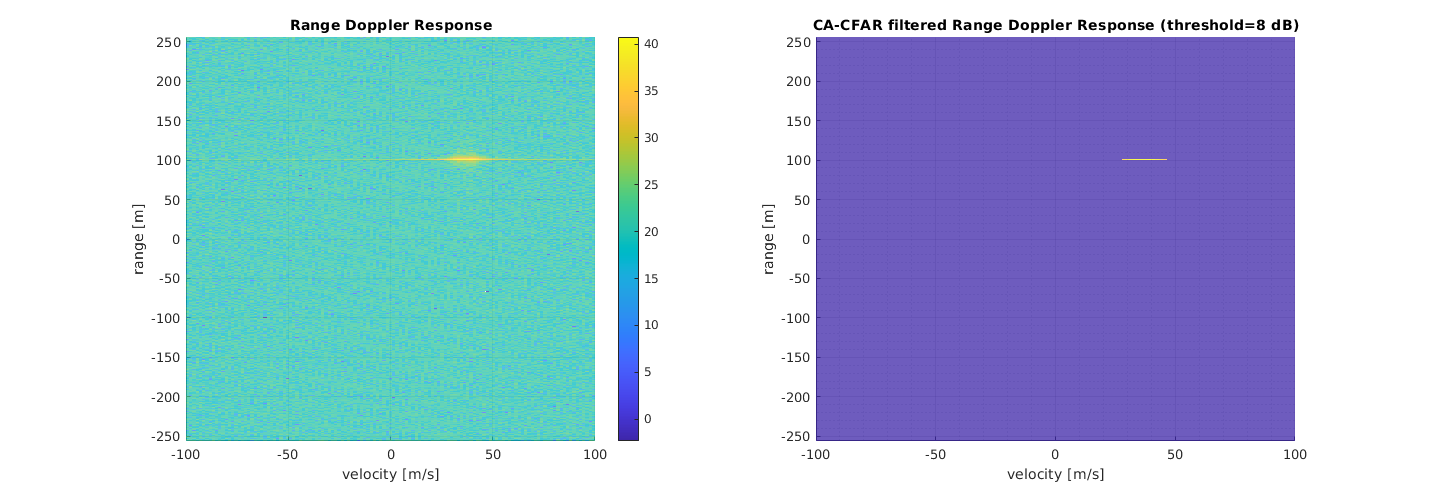
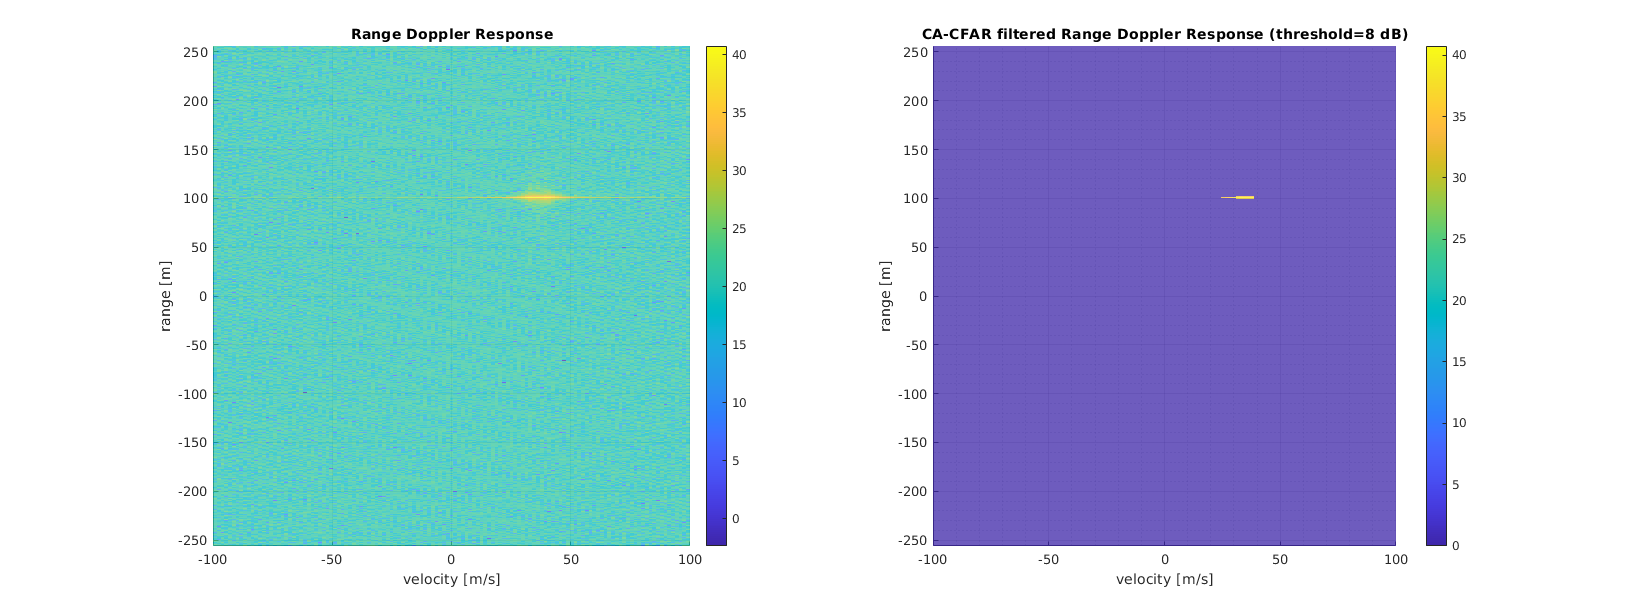
Add writeup to README

diff --git a/radar_target_generation_and_detection.m b/radar_target_generation_and_detection.m
@@ -36,8 +36,8 @@ str_factor = 5.5;                       % sweep-to-roundtrip factor,
                                         % as a typical value for an
                                         % FMCW radar system.
 
-Bsweep = c/(2*range_resolution);        % Hz, bandwidth
-Tchirp = str_factor * 2 * max_range/c;  % s, chirp time
+Bsweep = c/(2*range_resolution)         % Hz, bandwidth
+Tchirp = str_factor * 2 * max_range/c   % s, chirp time
 slope = Bsweep/Tchirp                   % Hz/s
 
 
@@ -164,12 +164,12 @@ surf(doppler_axis, range_axis, RDM);
 
 % Select the number of Training Cells in both the dimensions.
 Tr = 8;
-Td = 4;
+Td = 8;
 
 % Select the number of Guard Cells in both dimensions around the Cell
 % under test (CUT) for accurate estimation
 Gr = 4;
-Gd = 2;
+Gd = 8;
 
 % Offset the threshold by SNR value in dB
 offset = 8;
@@ -220,7 +220,10 @@ for r = r_min : r_max
                 cr = r + delta_r;
                 cd = d + delta_d;
                 
-                if (cr >= 1) && (cd >= 1) && (cr < Nrange_cells) && (cd < Ndoppler_cells)
+                in_valid_range = (cr >= 1) && (cd >= 1) && (cr < Nrange_cells) && (cd < Ndoppler_cells);
+                in_train_cell = abs(delta_r) > Gr || abs(delta_d) > Gd;
+                
+                if in_valid_range && in_train_cell
                     noise = db2pow(RDM(cr, cd));
                     noise_level(r, d) = noise_level(r, d) + noise;
                     cell_count = cell_count + 1;
@@ -266,5 +269,6 @@ xlabel('velocity [m/s]');
 ylabel('range [m]');
 zlabel('signal strength [dB]')
 title(sprintf('CA-CFAR filtered Range Doppler Response (threshold=%d dB)', offset))
+colorbar;
 
 linkprop([ax1, ax2],{'CameraUpVector', 'CameraPosition', 'CameraTarget', 'XLim', 'YLim', 'ZLim'});

diff --git a/README.md b/README.md
@@ -162,9 +162,68 @@ a FMCW waveform. Find its Bandwidth (B), chirp time (Tchirp) and slope of the ch
 
 ---
 
-As already shown in the very beginning of this README, this plot depicts
-both the immediate response including noise on the left, as well as the CA-CFAR
-filtered response on the right where every value below threshold was suppressed.
+## Project Implementation
+
+Given the specifications above and a sweep-to-roundtrip factor of 5.5 (given in the lectures
+as a typical value for an FMCW radar system), the following values were determined:
+
+- **Sweep bandwidth:** 150 MHz
+- **Chirp time:** 7.33 μs (7.3333e-06 s)
+- **Frequency drift / slope:** 20.45 THz/s (2.045e13 Hz/s)
+
+For the following simulation, a target was defined with the following parameters:
+
+- **Distance:** 100 m
+- **Velocity:** 37 m/s
+
+After simulating the beat signal was been for every time step, the Fourier transformation of it
+was taken in order to determine the distance to target. This resulted in a peak at
+
+- **Estimated distance:** 101 m
+
+Next, CA-CFAR was implemented as a march over each range/doppler cell (the cell-under-test, CUT),
+taking the integral of the training cells around it. The scan was limited to the extents of the
+CFAR signal storage array and normalization was done by the number of valid cells examined.
+Due to this procedure and since the CFAR signal array was initialized to zero, no edge suppression
+was required. If a signal were to be received in these edge areas however, we would have to expect
+slightly degraded results since a lower number of training cells is involved.
+
+In the next step, the mean noise level of the sampled cells was determined, converted from
+power to dB scale and compared against a threshold. Cells below threshold were suppressed, whereas
+cell values equal to or above threshold were kept. Note that this differs from the project description
+in that no further normalization is done here (specifically, good values are not simply set to one).
+Using the CFAR array as a multiplicative mask would be certainly possible with the approach
+described in the project, but the end result would be the same.
+
+Initially, the following setup was used by arbitrarily picking values from the lessons as defaults
+and determining a threshold by fair dice roll:
+
+- **Distance training cells:** 8
+- **Distance guard cells:** 4
+- **Doppler training cells:** 8
+- **Doppler training cells:** 4
+- **Threshold:** 4 dB
+
+This resulted in the following outcome:
+
+![](.readme/ca-cfar-too-low.png)
+
+As can be seen, the correct spike was kept, but is very wide along the velocity
+axis; in addition, a couple of false positives were kept as well.
+
+Since the estimate along the range axis was very sharp and spot on, the
+number of doppler training cells was increased to suppress velocity errors better.
+In addition, the threshold was increased to 8 dB, such that
+
+- **Distance training cells:** 8
+- **Distance guard cells:** 4
+- **Doppler training cells:** 8
+- **Doppler training cells:** 8
+- **Threshold:** 8 dB
+
+The result - as already shown in the very beginning of this README - is this plot.
+As can be seen, the spike at 100 m and 37 m / s is reasonably sharp, although the
+precision along the doppler / velocity axis could be better:
 
 ![](.readme/ca-cfar.png)
 
